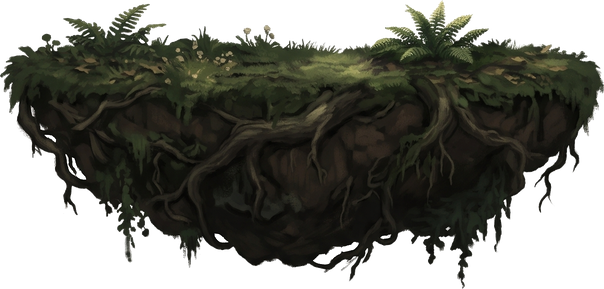
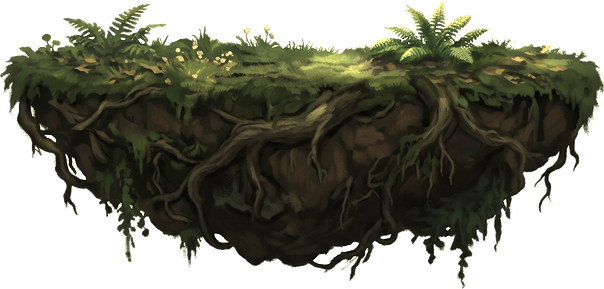
그림체를 사실적인 유화풍으로 정함: 가이드라인, 발판 윗면에 빛, 시험판 기본을 나로
Claude-Session: https://claude.ai/code/session_019ctizXkAJK8e2QXDcDEkS2

diff --git a/가로시험.html b/가로시험.html
@@ -25,7 +25,7 @@ let weapon = 0;
 
 // 발판: x, y(윗면), 그림, 그림 안에서 윗면이 있는 y, 딛는 폭
 // 그림 두 벌: 가 = 기사 그림체로 통일, 나 = 몬스터 그림체(유화풍)로 통일. 왼쪽 아래 단추로 바꾼다.
-let SET = '가';
+let SET = '나';
 const TOP = { 가: { ground: 28, mid: 28, small: 20, log: 46 }, 나: { ground: 18, mid: 43, small: 23, log: 60 } };
 const PLATS = [
   { x: 520,  y: 560, img: 'mid',  w: 600 },

diff --git a/tools/가로자산.py b/tools/가로자산.py
@@ -72,12 +72,22 @@ def 윗면(im):
     return 0
 
 
+def 윗빛(im):
+    """유화풍 발판이 어두운 배경에 묻히지 않게: 전체를 조금 밝히고, 딛는 윗면에 아침 햇살을 얹는다."""
+    a = np.asarray(im.convert('RGBA')).astype(np.float32); top = 윗면(im); h = a.shape[0]
+    y = np.arange(h)[:, None, None]
+    lift = 1.22 + 0.55 * np.clip(1 - np.abs(y - top - 6) / 34.0, 0, 1)        # 윗면 둘레가 가장 밝다
+    a[..., :3] = np.clip(a[..., :3] * lift * np.array([1.04, 1.03, 0.90]), 0, 255)
+    return Image.fromarray(a.astype(np.uint8), 'RGBA')
+
+
 def 발판_나():
     """배경 그림체(유화풍)로 뽑은 발판."""
     m = importlib.import_module('무기자르기')
     for p, size in m.split(os.path.join(ROOT, 'art/맵/원본/1구역-발판-나.png'), os.path.join(ROOT, 'art/맵'),
                            ['1구역-나-땅', '1구역-나-발판-중', '1구역-나-발판-소', '1구역-나-통나무']):
-        im = Image.open(p); im = im.resize((im.width // 2, im.height // 2), Image.LANCZOS); im.save(p)
+        im = Image.open(p); im = im.resize((im.width // 2, im.height // 2), Image.LANCZOS)
+        im = 윗빛(im); im.save(p)
         importlib.import_module('무기모두자르기').흰틈지우기(p, 6)          # 늘어진 뿌리 사이의 흰 배경
         print(os.path.basename(p), im.size, '윗면', 윗면(im))
 

diff --git a/tools/기획계산.py b/tools/기획계산.py
@@ -19,7 +19,7 @@ W_NEED = 88                      # 8종 + 겹친 것 80자루(8종 모두 강화
 # ───────── 동료 뽑기 (제안) ─────────
 C_IN = [36, 33, 31]              # 등급 안 세 마리의 비율
 C_RATE = {1: [100], 2: [65, 35], 3: [50, 35, 15], 4: [47, 33, 15, 5], 5: [47, 32, 15.4, 5, 0.6]}
-C_PITY = {1: 10, 2: 20, 3: 50, 4: 150, 5: 500}
+C_PITY = {1: 10, 2: 20, 3: 50, 4: 150, 5: 400}
 C_NEED_EACH = 11                 # 한 마리마다 1 + 겹친 것 10 (강화 5)
 
 # ───────── 능력치 (제안) ─────────

diff --git a/가이드라인.md b/가이드라인.md
@@ -206,7 +206,13 @@
 - 옷, 머리, 무기를 뽑는 방법은 `꾸미기 주문서.md`를 따른다.
 - 게임에서 기사 둘레에 밝은 테두리를 두르지 않는다.
 
-### 맵 배경
+### 그림체 (2026-11-15에 바꿈)
+- **게임 전체를 사실적인 유화풍으로 맞춘다.** 가는 선, 붓 자국이 보이는 부드러운 명암, 차분한 색. 1구역 몬스터와 먼 배경이 기준이다.
+- 굵은 검은 테두리와 납작한 색으로 칠한 애니메이션풍은 쓰지 않는다. 기사, 옷, 머리, 무기, 동료, 발판 모두 유화풍으로 그린다.
+- 앞서 만든 애니메이션풍 그림(기사, 옷, 머리, 무기 40종)은 모양은 그대로 두고 그림체만 유화풍으로 다시 칠한다. 다시 칠할 때는 지금 그림을 올리고 "모양은 그대로, 그림체만" 바꾼다.
+- 배경이 어둡고 세밀하므로 캐릭터와 발판이 묻히지 않게 한다: 발판 윗면과 캐릭터에는 빛을 얹고, 먼 배경은 한 톤 누른다.
+- 아이콘과 홍보 그림은 눈에 띄는 것이 먼저라 게임 안 그림체와 달라도 된다.
+
 - **배경은 두 가지 색조로 나눈다.** 먼 배경은 어둡고 세밀하고 사실적으로 그린다. 기사와 몬스터가 다니는 발판과 앞쪽은 밝고 단순한 2D로 그린다. 이래야 캐릭터가 배경에 묻히지 않는다.
 - **배경은 겹으로 쌓는다**: 먼 배경(가장 느리게 흐름) → 발판 → 기사와 몬스터. 기사가 움직이면 겹마다 다른 속도로 흐른다.
 - **한 구역의 스테이지 열 곳은 배경이 모두 다르다.** 구역의 분위기는 같게 두고 장소만 바꾼다. 그 스테이지에 나오는 몬스터와 어울리는 장소로 정한다.
